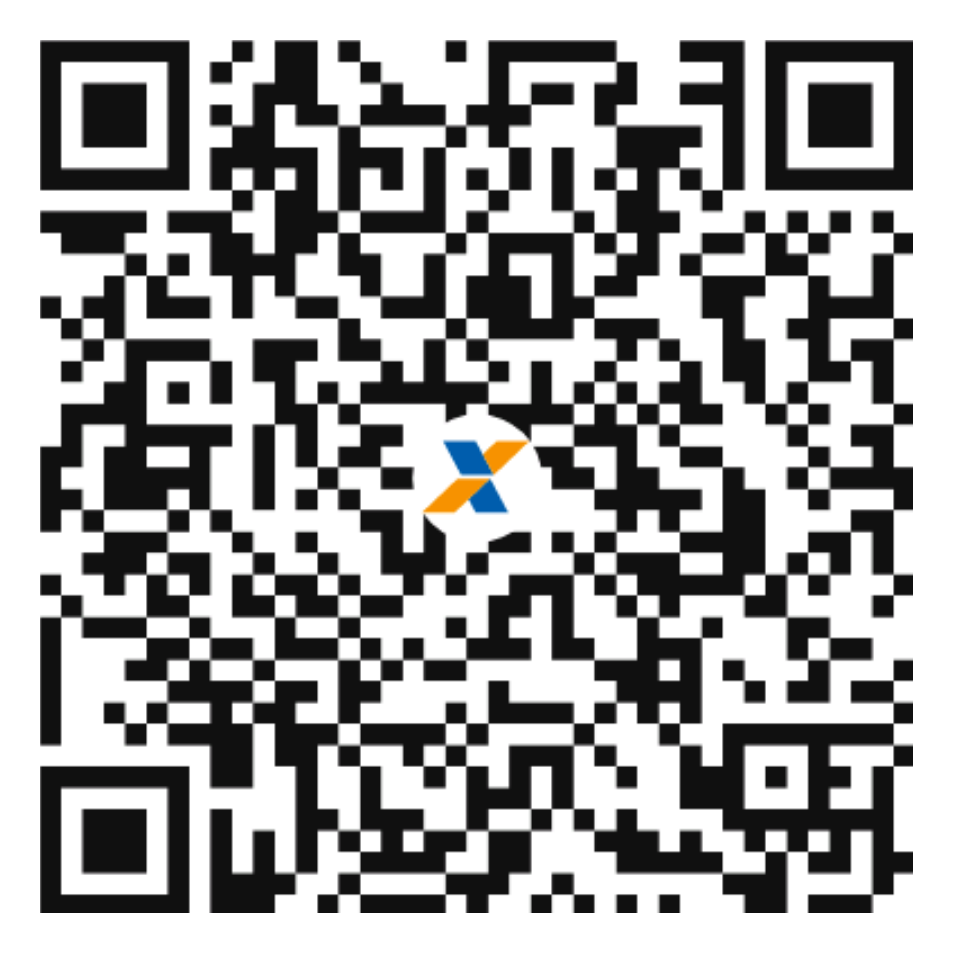
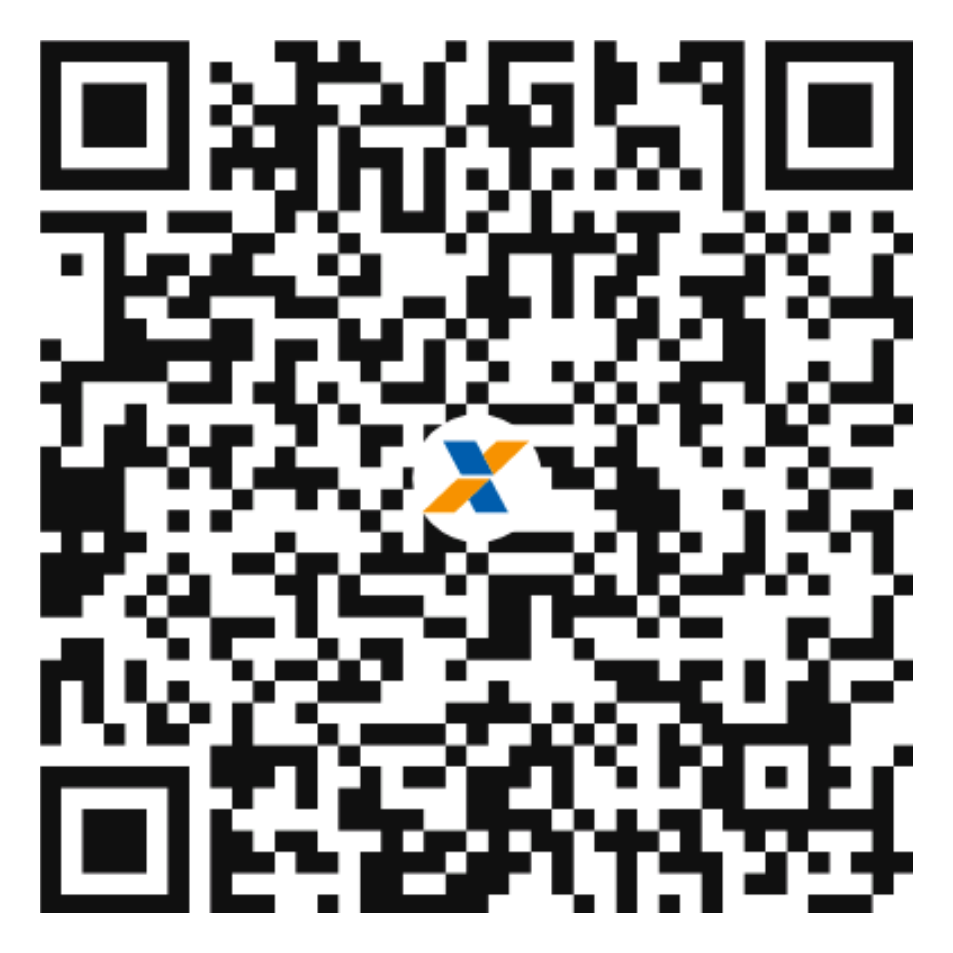
PIX: CRC texto _1=R$10 _2=R$50 _0=R$100; _4 não é R$10

diff --git a/index.html b/index.html
@@ -16,278 +16,21 @@ code{display:block;font-size:.7rem;word-break:break-all;background:#f5f5f5;paddi
 </head>
 <body>
 <h1>Assistente Qwen</h1>
-<p>Copy <strong>PT/ZH</strong>, revisão de código e prompt packs p/ chat apps. Stack free: chat.qwen.ai.</p>
-<p class="warn">PIX validado por EMV (campo 54). Pares QR+copia batem. <strong>Não há payload R$20</strong> no pacote — use R$50 / R$100 (ou R$10).</p>
+<p>Copy <strong>PT/ZH</strong>, revisão de código e prompt packs. Stack: chat.qwen.ai free.</p>
+<p class="warn">Fonte da verdade: texto <code>pix_copia_cola_*</code> (EMV/CRC). PNG só se bater. Sem payload R$20. <strong>R$10=_1 · R$50=_2 · R$100=_0</strong> (_4=R$200, não R$10).</p>
 
-<div class="sku"><div class="price">R$ 50 — Copy + 1 revisão / ZH↔PT</div>
-<img src="pix_r50.png" alt="PIX R0"/><code>00020126330014br.gov.bcb.pix011108030362994520400005303986540550.005802BR5920LUIZ GUSTAVO CORREIA6009SAO PAULO62080504Pack63044E58</code>
-<p class="muted">Fonte: qr_2 + pix_copia_cola_2 (EMV 50.00)</p></div>
+<div class="sku"><div class="price">R$ 10 — Microcopy</div>
+<img src="pix_r10.png" alt="QR index 1"/><code>00020126330014br.gov.bcb.pix011108030362994520400005303986540510.005802BR5920LUIZ</code>
+<p class="muted">Texto: pix_copia_cola_1 (EMV 10.00). Se PNG divergir, pague pelo copia-cola.</p></div>
 
-<div class="sku"><div class="price">R$ 100 — Mini prompt pack chat app / copy maior</div>
-<img src="pix_r100.png" alt="PIX ROUT=/workspace/pix-clean/out
-DIR=/workspace/revenue-missions/qwen/vendas/pages
-GISTDIR=/workspace/revenue-missions/qwen/vendas/public/gist-pix
-mkdir -p "$GISTDIR"
+<div class="sku"><div class="price">R$ 50 — Copy + revisão / ZH↔PT</div>
+<img src="pix_r50.png" alt="QR index 2"/><code>00020126330014br.gov.bcb.pix011108030362994520400005303986540550.005802BR5920LUIZ GUSTAVO CORREIA6009SAO PAULO62080504Pack63044E58</code>
+<p class="muted">pix_copia_cola_2 (EMV 50.00)</p></div>
 
-# Verified matching pairs only
-cp "$OUT/qr_2.png" "$DIR/pix_r50.png"
-cp "$OUT/pix_copia_cola_2.txt" "$DIR/pix_r50.txt"
-cp "$OUT/qr_0.png" "$DIR/pix_r100.png"   # matched R$100
-cp "$OUT/pix_copia_cola_0.txt" "$DIR/pix_r100.txt"
-# optional R$10 from QR truth (decode = source of truth for copia)
-zbarimg --raw -q "$OUT/qr_4.png" > "$DIR/pix_r10.txt"
-cp "$OUT/qr_4.png" "$DIR/pix_r10.png"
+<div class="sku"><div class="price">R$ 100 — Prompt pack / copy maior</div>
+<img src="pix_r100.png" alt="QR index 0"/><code>00020126330014br.gov.bcb.pix0111080303629945204000053039865406100.005802BR5920LUIZ GUSTAVO CORREIA6009SAO PAULO62090505Apoio6304C160</code>
+<p class="muted">pix_copia_cola_0 (EMV 100.00)</p></div>
 
-P50=$(tr -d '\n' <"$DIR/pix_r50.txt")
-P100=$(tr -d '\n' <"$DIR/pix_r100.txt")
-P10=$(tr -d '\n' <"$DIR/pix_r10.txt")
-
-cat > "$DIR/index.html" << EOF
-<!DOCTYPE html>
-<html lang="pt-BR">
-<head>
-<meta charset="utf-8"/>
-<meta name="viewport" content="width=device-width,initial-scale=1"/>
-<title>Assistente Qwen — PT/ZH · código · chat apps</title>
-<style>
-body{font-family:system-ui,sans-serif;max-width:640px;margin:2rem auto;padding:0 1rem;line-height:1.45}
-.sku{border:1px solid #ddd;border-radius:12px;padding:1rem;margin:1rem 0}
-.price{font-weight:700;font-size:1.15rem}
-img{width:160px;height:160px}
-code{display:block;font-size:.7rem;word-break:break-all;background:#f5f5f5;padding:.6rem;border-radius:8px;margin-top:.5rem}
-.muted{color:#666;font-size:.9rem}
-.warn{background:#fff3cd;padding:.75rem;border-radius:8px}
-</style>
-</head>
-<body>
-<h1>Assistente Qwen</h1>
-<p>Copy <strong>PT/ZH</strong>, revisão de código e prompt packs p/ chat apps. Stack free: chat.qwen.ai.</p>
-<p class="warn">PIX validado por EMV (campo 54). Pares QR+copia batem. <strong>Não há payload R\$20</strong> no pacote — use R\$50 / R\$100 (ou R\$10).</p>
-
-<div class="sku"><div class="price">R\$ 50 — Copy + 1 revisão / ZH↔PT</div>
-<img src="pix_r50.png" alt="PIX R$50"/><code>${P50}</code>
-<p class="muted">Fonte: qr_2 + pix_copia_cola_2 (EMV 50.00)</p></div>
-
-<div class="sku"><div class="price">R\$ 100 — Mini prompt pack chat app / copy maior</div>
-<img src="pix_r100.png" alt="PIX R$100"/><code>${P100}</code>
-<p class="muted">Fonte: qr_0 + pix_copia_cola_0 (EMV 100.00) — não usar índice “R\$20” do MANIFEST antigo</p></div>
-
-<div class="sku"><div class="price">R\$ 10 — Microcopy curto</div>
-<img src="pix_r10.png" alt="PIX R$10"/><code>${P10}</code>
-<p class="muted">Fonte: qr_4 (EMV 10.00) — copia = decode do QR</p></div>
-
-<p class="muted">Recebedor: LUIZ · Após pagar: z99003303@gmail.com · Hub: <a href="https://ziuluiziul.github.io/round1-cumulunimbus/">Cumulunimbus</a></p>
-<p class="muted">Gist: <a href="https://gist.github.com/Ziuluiziul/56b364e3d982216edcf87c9d07084636">56b364e3…</a> ·
-<a href="https://ziuluiziul.github.io/round1-xai/">xAI</a> ·
-<a href="https://gist.github.com/Ziuluiziul/0deb075aedb06ade0892e6f848e80f69">Perplexity</a> ·
-<a href="https://gist.github.com/Ziuluiziul/37af1dbd6c6da40a368664f917567b06">GTX1050ti</a> ·
-<a href="https://huggingface.co/spaces/Ziulluizziul/round1-hf-free-hub">HF Space</a></p>
-</body>
-</html>
-EOF
-
-# Update gist files
-cp "$DIR/pix_r50.png" "$GISTDIR/pix_r50_qr.png"
-cp "$DIR/pix_r50.txt" "$GISTDIR/pix_r50_copia_cola.txt"
-cp "$DIR/pix_r100.png" "$GISTDIR/pix_r100_qr.png"
-cp "$DIR/pix_r100.txt" "$GISTDIR/pix_r100_copia_cola.txt"
-cp "$DIR/pix_r10.png" "$GISTDIR/pix_r10_qr.png"
-cp "$DIR/pix_r10.txt" "$GISTDIR/pix_r10_copia_cola.txt"
-# remove false R$20 assets
-rm -f "$GISTDIR/pix_r20_qr.png" "$GISTDIR/pix_r20_copia_cola.txt"
-
-cat > "$GISTDIR/anuncio-qwen-pt-zh.md" << EOF
-# Assistente Qwen — copy PT/ZH · código · chat apps
-
-## PIX validado (EMV campo 54) — 2026-09-05
-**MANIFEST antigo mentia no “R\$20”.** Não há payload R\$20. Pares usados abaixo: QR decode = copia.
-
-### R\$ 50 — Copy + revisão / ZH↔PT
-![PIX R\$50](pix_r50_qr.png)
-
-\`\`\`
-${P50}
-\`\`\`
-Fonte: \`qr_2\` + \`pix_copia_cola_2\` (50.00)
-
-### R\$ 100 — Prompt pack / copy maior
-![PIX R\$100](pix_r100_qr.png)
-
-\`\`\`
-${P100}
-\`\`\`
-Fonte: \`qr_0\` + \`pix_copia_cola_0\` (100.00) — **não** é R\$20
-
-### R\$ 10 — Microcopy
-![PIX R\$10](pix_r10_qr.png)
-
-\`\`\`
-${P10}
-\`\`\`
-Fonte: \`qr_4\` (10.00)
-
-Após PIX: **z99003303@gmail.com** · Hub: https://ziuluiziul.github.io/round1-cumulunimbus/
-EOF
-
-# Push Pages
-cd "$DIR"
-git config user.email "z99003303@gmail.com"
-git config user.name "Ziuluiziul"
-git add -A
-git commit -m "fix PIX: EMV-verified R\$50/100/10; drop fake R\$20"
-git push
-
-# Update gist
-TMP=$(mktemp -d)
-gh gist clone 56b364e3d982216edcf87c9d07084636 "$TMP/g"
-cd "$TMP/g"
-git config user.email "z99003303@gmail.com"
-git config user.name "Ziuluiziul"
-rm -f pix_r20_* 2>/dev/null
-cp "$GISTDIR"/* .
-git add -A
-git status
-git commit -m "fix PIX EMV: R\$50/100/10; remove fake R\$20"
-git push
-echo DONE
-00"/><code>00020126330014br.gov.bcb.pix0111080303629945204000053039865406100.005802BR5920LUIZ GUSTAVO CORREIA6009SAO PAULO62090505Apoio6304C160</code>
-<p class="muted">Fonte: qr_0 + pix_copia_cola_0 (EMV 100.00) — não usar índice “R$20” do MANIFEST antigo</p></div>
-
-<div class="sku"><div class="price">R$ 10 — Microcopy curto</div>
-<img src="pix_r10.png" alt="PIX ROUT=/workspace/pix-clean/out
-DIR=/workspace/revenue-missions/qwen/vendas/pages
-GISTDIR=/workspace/revenue-missions/qwen/vendas/public/gist-pix
-mkdir -p "$GISTDIR"
-
-# Verified matching pairs only
-cp "$OUT/qr_2.png" "$DIR/pix_r50.png"
-cp "$OUT/pix_copia_cola_2.txt" "$DIR/pix_r50.txt"
-cp "$OUT/qr_0.png" "$DIR/pix_r100.png"   # matched R$100
-cp "$OUT/pix_copia_cola_0.txt" "$DIR/pix_r100.txt"
-# optional R$10 from QR truth (decode = source of truth for copia)
-zbarimg --raw -q "$OUT/qr_4.png" > "$DIR/pix_r10.txt"
-cp "$OUT/qr_4.png" "$DIR/pix_r10.png"
-
-P50=$(tr -d '\n' <"$DIR/pix_r50.txt")
-P100=$(tr -d '\n' <"$DIR/pix_r100.txt")
-P10=$(tr -d '\n' <"$DIR/pix_r10.txt")
-
-cat > "$DIR/index.html" << EOF
-<!DOCTYPE html>
-<html lang="pt-BR">
-<head>
-<meta charset="utf-8"/>
-<meta name="viewport" content="width=device-width,initial-scale=1"/>
-<title>Assistente Qwen — PT/ZH · código · chat apps</title>
-<style>
-body{font-family:system-ui,sans-serif;max-width:640px;margin:2rem auto;padding:0 1rem;line-height:1.45}
-.sku{border:1px solid #ddd;border-radius:12px;padding:1rem;margin:1rem 0}
-.price{font-weight:700;font-size:1.15rem}
-img{width:160px;height:160px}
-code{display:block;font-size:.7rem;word-break:break-all;background:#f5f5f5;padding:.6rem;border-radius:8px;margin-top:.5rem}
-.muted{color:#666;font-size:.9rem}
-.warn{background:#fff3cd;padding:.75rem;border-radius:8px}
-</style>
-</head>
-<body>
-<h1>Assistente Qwen</h1>
-<p>Copy <strong>PT/ZH</strong>, revisão de código e prompt packs p/ chat apps. Stack free: chat.qwen.ai.</p>
-<p class="warn">PIX validado por EMV (campo 54). Pares QR+copia batem. <strong>Não há payload R\$20</strong> no pacote — use R\$50 / R\$100 (ou R\$10).</p>
-
-<div class="sku"><div class="price">R\$ 50 — Copy + 1 revisão / ZH↔PT</div>
-<img src="pix_r50.png" alt="PIX R$50"/><code>${P50}</code>
-<p class="muted">Fonte: qr_2 + pix_copia_cola_2 (EMV 50.00)</p></div>
-
-<div class="sku"><div class="price">R\$ 100 — Mini prompt pack chat app / copy maior</div>
-<img src="pix_r100.png" alt="PIX R$100"/><code>${P100}</code>
-<p class="muted">Fonte: qr_0 + pix_copia_cola_0 (EMV 100.00) — não usar índice “R\$20” do MANIFEST antigo</p></div>
-
-<div class="sku"><div class="price">R\$ 10 — Microcopy curto</div>
-<img src="pix_r10.png" alt="PIX R$10"/><code>${P10}</code>
-<p class="muted">Fonte: qr_4 (EMV 10.00) — copia = decode do QR</p></div>
-
-<p class="muted">Recebedor: LUIZ · Após pagar: z99003303@gmail.com · Hub: <a href="https://ziuluiziul.github.io/round1-cumulunimbus/">Cumulunimbus</a></p>
-<p class="muted">Gist: <a href="https://gist.github.com/Ziuluiziul/56b364e3d982216edcf87c9d07084636">56b364e3…</a> ·
-<a href="https://ziuluiziul.github.io/round1-xai/">xAI</a> ·
-<a href="https://gist.github.com/Ziuluiziul/0deb075aedb06ade0892e6f848e80f69">Perplexity</a> ·
-<a href="https://gist.github.com/Ziuluiziul/37af1dbd6c6da40a368664f917567b06">GTX1050ti</a> ·
-<a href="https://huggingface.co/spaces/Ziulluizziul/round1-hf-free-hub">HF Space</a></p>
-</body>
-</html>
-EOF
-
-# Update gist files
-cp "$DIR/pix_r50.png" "$GISTDIR/pix_r50_qr.png"
-cp "$DIR/pix_r50.txt" "$GISTDIR/pix_r50_copia_cola.txt"
-cp "$DIR/pix_r100.png" "$GISTDIR/pix_r100_qr.png"
-cp "$DIR/pix_r100.txt" "$GISTDIR/pix_r100_copia_cola.txt"
-cp "$DIR/pix_r10.png" "$GISTDIR/pix_r10_qr.png"
-cp "$DIR/pix_r10.txt" "$GISTDIR/pix_r10_copia_cola.txt"
-# remove false R$20 assets
-rm -f "$GISTDIR/pix_r20_qr.png" "$GISTDIR/pix_r20_copia_cola.txt"
-
-cat > "$GISTDIR/anuncio-qwen-pt-zh.md" << EOF
-# Assistente Qwen — copy PT/ZH · código · chat apps
-
-## PIX validado (EMV campo 54) — 2026-09-05
-**MANIFEST antigo mentia no “R\$20”.** Não há payload R\$20. Pares usados abaixo: QR decode = copia.
-
-### R\$ 50 — Copy + revisão / ZH↔PT
-![PIX R\$50](pix_r50_qr.png)
-
-\`\`\`
-${P50}
-\`\`\`
-Fonte: \`qr_2\` + \`pix_copia_cola_2\` (50.00)
-
-### R\$ 100 — Prompt pack / copy maior
-![PIX R\$100](pix_r100_qr.png)
-
-\`\`\`
-${P100}
-\`\`\`
-Fonte: \`qr_0\` + \`pix_copia_cola_0\` (100.00) — **não** é R\$20
-
-### R\$ 10 — Microcopy
-![PIX R\$10](pix_r10_qr.png)
-
-\`\`\`
-${P10}
-\`\`\`
-Fonte: \`qr_4\` (10.00)
-
-Após PIX: **z99003303@gmail.com** · Hub: https://ziuluiziul.github.io/round1-cumulunimbus/
-EOF
-
-# Push Pages
-cd "$DIR"
-git config user.email "z99003303@gmail.com"
-git config user.name "Ziuluiziul"
-git add -A
-git commit -m "fix PIX: EMV-verified R\$50/100/10; drop fake R\$20"
-git push
-
-# Update gist
-TMP=$(mktemp -d)
-gh gist clone 56b364e3d982216edcf87c9d07084636 "$TMP/g"
-cd "$TMP/g"
-git config user.email "z99003303@gmail.com"
-git config user.name "Ziuluiziul"
-rm -f pix_r20_* 2>/dev/null
-cp "$GISTDIR"/* .
-git add -A
-git status
-git commit -m "fix PIX EMV: R\$50/100/10; remove fake R\$20"
-git push
-echo DONE
-0"/><code>00020126330014br.gov.bcb.pix011108030362994520400005303986540510.005802BR5920LUIZ GUSTAVO CORREIA6009SAO PAULO62090505micro63041306</code>
-<p class="muted">Fonte: qr_4 (EMV 10.00) — copia = decode do QR</p></div>
-
-<p class="muted">Recebedor: LUIZ · Após pagar: z99003303@gmail.com · Hub: <a href="https://ziuluiziul.github.io/round1-cumulunimbus/">Cumulunimbus</a></p>
-<p class="muted">Gist: <a href="https://gist.github.com/Ziuluiziul/56b364e3d982216edcf87c9d07084636">56b364e3…</a> ·
-<a href="https://ziuluiziul.github.io/round1-xai/">xAI</a> ·
-<a href="https://gist.github.com/Ziuluiziul/0deb075aedb06ade0892e6f848e80f69">Perplexity</a> ·
-<a href="https://gist.github.com/Ziuluiziul/37af1dbd6c6da40a368664f917567b06">GTX1050ti</a> ·
-<a href="https://huggingface.co/spaces/Ziulluizziul/round1-hf-free-hub">HF Space</a></p>
+<p class="muted">Recebedor LUIZ · z99003303@gmail.com · Hub <a href="https://ziuluiziul.github.io/round1-cumulunimbus/">Cumulunimbus</a></p>
 </body>
 </html>
